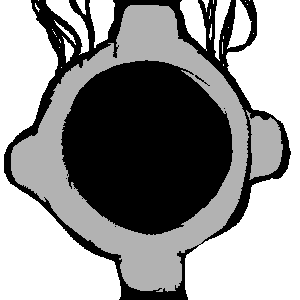
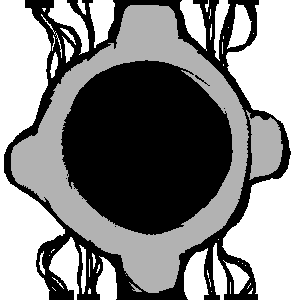
added bottom wires

diff --git a/js/script.js b/js/script.js
@@ -83,7 +83,7 @@ var specialPresets = [
         d.getElementById("messages").style.display = "inline-block"
         d.getElementById("newmessages").style.display = "inline-block"
         
-        messagePresets[0] =  writeMessage("Visual display non-responsive. Switching to text-based display.", messagePresets[0])
+        messagePresets[0] =  writeMessage("Visual display non-responsive. Switching to text-based display.", messagePresets[0], 0)
     }, 5, "viewportYEAH"],
 
     [100, "Upgrade Blood Valves", "Now twice as efficient!", 3, ()=> {
@@ -192,7 +192,7 @@ function count(number) {
 }
 //////
 
-function writeMessage(text, check) {
+function writeMessage(text, check, delay) {
 
     for(let n = 0; n < newsCounter;n++) {
         if(d.getElementById("strip" + n) != null) {
@@ -205,20 +205,35 @@ function writeMessage(text, check) {
 
     else if(check === false) {
 
-        newsCounter++
+        if(delay === 0) {
+            newsCounter++
 
-        newmessages.innerHTML += '<p class="messageStrip" id="strip'+ newsCounter 
-        +'" style="animation-name:messageLoad;animation-duration:0.5s">'+ text + '</p>';
-       setTimeout(()=>{
-           if(d.getElementById("strip" + newsCounter != null)) {
-        d.getElementById("strip" + newsCounter).style = "";
-       }}, 500)
-         result =  true;
-
-       data.messageLog[newsCounter] = text
-    }
+            newmessages.innerHTML += '<p class="messageStrip" id="strip'+ newsCounter 
+            +'" style="animation-name:messageLoad;animation-duration:0.5s">'+ text + '</p>';
+           setTimeout(()=>{
+               if(d.getElementById("strip" + newsCounter != null)) {
+            d.getElementById("strip" + newsCounter).style = "";
+           }}, 500)
+             result =  true;
     
-    return result;
+           data.messageLog[newsCounter] = text
+        } else setTimeout(()=>{
+
+            newsCounter++
+
+            newmessages.innerHTML += '<p class="messageStrip" id="strip'+ newsCounter 
+            +'" style="animation-name:messageLoad;animation-duration:0.5s">'+ text + '</p>';
+           setTimeout(()=>{
+               if(d.getElementById("strip" + newsCounter != null)) {
+            d.getElementById("strip" + newsCounter).style = "";
+           }}, 500)
+             result =  true;
+    
+    
+
+}, delay)
+    }
+return result;
 }
 
 
@@ -354,7 +369,7 @@ function addUpgrade(preset) {
         intervals[dataPosition] = setInterval(()=>{
             if(data.upgrade[preset[7]] !== null && data.upgrade[preset[7]] !== undefined && data.upgrade[preset[7]][2] > 0) {
                 
-                writeMessage("hey.", false)
+                writeMessage("hey.", false, 0)
         
             }}, data.upgrade[0][10] * 1000)
 
@@ -548,11 +563,11 @@ if(inputStream[inputStream.length - 1] === "Enter") {
     
             switch (autosavetoggle) {
                 case true:
-                writeMessage("AUTOSAVE ACTIVATED", false)
+                writeMessage("AUTOSAVE ACTIVATED", false, 0)
                 autosave.innerHTML = "<span id='on'>[ON]</span> AUTOSAVE"
                 break;
                 case false:
-                writeMessage("AUTOSAVE DEACTIVATED", false)
+                writeMessage("AUTOSAVE DEACTIVATED", false, 0)
                 autosave.innerHTML = "<span id='off'>[OFF]</span> AUTOSAVE"
                 break;
             } break;
@@ -587,7 +602,7 @@ if(inputStream[inputStream.length - 1] === "Enter") {
 
         case ">h":
       //  console.log(cmdHistory);
-        writeMessage(cmdHistory, false)
+        writeMessage(cmdHistory, false, 0)
         break;
 
         case ">v":
@@ -606,13 +621,13 @@ if(inputStream[inputStream.length - 1] === "Enter") {
             if(cmd[cmd.length - 1][0] === "#") { msg = "<span style='color:" + cmd[cmd.length - 1] + "' >"
             for(let n = 1; n < cmd.length - 1; n++)  msg += cmd[n] + " "
             msg += "</span>"
-            writeMessage(msg, false)
-            writeMessage("<br>", false)
+            writeMessage(msg, false, 0)
+            writeMessage("<br>", false, 0)
         }  else {
             msg = ""
             for(let n = 1; n < cmd.length; n++)  msg += cmd[n] + " "
-            writeMessage(msg, false)
-            writeMessage("<br>", false)
+            writeMessage(msg, false, 0)
+            writeMessage("<br>", false, 0)
         }}
         break;
 
@@ -624,8 +639,8 @@ if(inputStream[inputStream.length - 1] === "Enter") {
 
                 download(msg, cmd[1], "txt");
             }
-            else if(!cmd[1]) writeMessage("No name given", false)
-            else if(!cmd[2]) writeMessage("No data given", false)
+            else if(!cmd[1]) writeMessage("No name given", false, 0)
+            else if(!cmd[2]) writeMessage("No data given", false, 0)
             break;
 
         case ">clear":
@@ -633,7 +648,7 @@ if(inputStream[inputStream.length - 1] === "Enter") {
             if(ExpandToggle) clearNum = 25
              else clearNum = 10
             for(let n = 0; n <= clearNum; n++) {
-                writeMessage("<br>", false)
+                writeMessage("<br>", false, 0)
             } break;
 
         case ">click":
@@ -668,8 +683,8 @@ if(inputStream[inputStream.length - 1] === "Enter") {
 
         for(n in cmd) msg += cmd[n] + " "
         msg += "is not a command. Try again."
-        writeMessage(msg, false)
-        writeMessage("<br>", false)
+        writeMessage(msg, false, 0)
+        writeMessage("<br>", false, 0)
      //   console.log("Unknown command");
         break;
     }
@@ -814,7 +829,7 @@ function linkSplit(text, back) {
         choiceNumberOf++
     
          }
-         if(Nodes[n] !== undefined) if(data.counter <= Nodes[n].Value) writeMessage(`${Nodes[n].Value} Energy Needed`, false)
+         if(Nodes[n] !== undefined) if(data.counter <= Nodes[n].Value) writeMessage(`${Nodes[n].Value} Energy Needed`, false, 0)
 
      }}}
 
@@ -827,7 +842,7 @@ function linkSplit(text, back) {
      }
 
      data.counter -= Nodes [ data.adventureLog[data.adventureLog.length - 1 ] ].Value
-     writeMessage(`${ Nodes [ data.adventureLog[data.adventureLog.length - 1 ] ].Value} Energy Used`, false)
+     writeMessage(`${ Nodes [ data.adventureLog[data.adventureLog.length - 1 ] ].Value} Energy Used`, false, 0)
 
      if(back) data.adventureLog.splice(data.adventureLog.length-1, 1)
      
@@ -844,12 +859,12 @@ function linkSplit(text, back) {
 wireItems = d.getElementsByClassName("wiresItem")
 
 
-for(let n = 0; n <= 1; n++)
+for(let n = 0; n <= 3; n++)
 wireItems[n].addEventListener("click", ()=>{
     if (messagePresets[0]) {
     switch (true) {
         case (wires[0] < 32):
-            writeMessage(wires[wires[0]], false);
+            writeMessage(wires[wires[0]], false, 0);
             wires[0]++;
             break;
         case (wires[0] >= 32 && wires[0] < 35):
@@ -864,7 +879,7 @@ wireItems[n].addEventListener("click", ()=>{
 
 function wireStop() {
     if(wiresPauses) {
-        writeMessage(wires[wires[0]], false)
+        writeMessage(wires[wires[0]], false, 0)
         wires[0]++
 
     }}
@@ -898,7 +913,7 @@ let wires = [1,
     "IF YOU DON'T STOP...",//26
     "I'LL BE FORCED TO USE MY <i>SECRET MOVE</i>",//27
     "LAST WARNING...",//28
-    "<span class='link' onclick=' data.counter = 0; if(wiresPauses === false){writeMessage(wires[32], false);wires[0]++;wiresPauses = true}'>eraseCounter.exe</span>",//29
+    "<span class='link' onclick=' data.counter = 0; if(wiresPauses === false){writeMessage(wires[32], false, 0);wires[0]++;wiresPauses = true}'>eraseCounter.exe</span>",//29
     "...",//30
     "COULD YOU, UM, CLICK ON THE FILE?",//31
     "HAHAHAHAHA!",//32
@@ -908,9 +923,6 @@ let wires = [1,
 wiresPauses = false
 
 //Math.floor((Math.random() * wires.length))
-
-writeMessage("<br>", false)
-d.getElementById("strip0").style = ""
 
 EnergySwitch.addEventListener("click", ()=>{
     EnergySwitchToggle = !EnergySwitchToggle;
@@ -948,7 +960,7 @@ secondHeart.addEventListener("click", ()=>{
 
 
 function SAVE(isClear) {
-    if(!autosavetoggle && !isClear) writeMessage("STATE SAVED", false)
+    if(!autosavetoggle && !isClear) writeMessage("STATE SAVED", false, 0)
 
     //btoa(unescape(encodeURIComponent(str)))
     //localStorage.firstSave = "true"
@@ -1121,7 +1133,7 @@ function RESET() {
 
     var CLEARspookInterval = setInterval(()=>{
         d.getElementById("newmessages").style.display = "inline-block"
-        writeMessage("ERROR", false);
+        writeMessage("ERROR", false, 0);
     },10)
 
     setTimeout(()=>{
@@ -1214,11 +1226,11 @@ autosave.addEventListener("click", ()=>{
     
     switch (autosavetoggle) {
         case true:
-        writeMessage("AUTOSAVE ACTIVATED", false)
+        writeMessage("AUTOSAVE ACTIVATED", false, 0)
         autosave.innerHTML = "<span id='on'>[ON]</span> AUTOSAVE"
         break;
         case false:
-        writeMessage("AUTOSAVE DEACTIVATED", false)
+        writeMessage("AUTOSAVE DEACTIVATED", false, 0)
         autosave.innerHTML = "<span id='off'>[OFF]</span> AUTOSAVE"
         break;
     }
@@ -1229,7 +1241,7 @@ save.addEventListener("click", ()=>{ SAVE(false) })
 load.addEventListener("click", ()=>{ LOAD() ; })
 reset.addEventListener("click", ()=>{ 
     resetOnce= false
-    writeMessage("This will erase all of you data. Are you sure that you want to proceed? [<span class='link' onclick='if(!resetOnce) RESET() '>YES</span>][<span class='link' onclick='if(!resetOnce) {writeMessage(`All right.`, false); resetOnce = true}'>NO</span>]", false)
+    writeMessage("This will erase all of you data. Are you sure that you want to proceed? [<span class='link' onclick='if(!resetOnce) RESET() '>YES</span>][<span class='link' onclick='if(!resetOnce) {writeMessage(`All right.`, false, 0); resetOnce = true}'>NO</span>]", false, 0)
 
 })
 exportS.addEventListener("click", ()=>{ 
@@ -1239,9 +1251,9 @@ exportS.addEventListener("click", ()=>{
     const text = exportFile
     try {
        navigator.clipboard.writeText('"' +text + '"')
-       writeMessage("DATA COPIED TO CLIPBOARD", false)
+       writeMessage("DATA COPIED TO CLIPBOARD", false, 0)
     } catch (err) {
-        writeMessage("DATA FAILED TO EXPORT", false)
+        writeMessage("DATA FAILED TO EXPORT", false, 0)
     }
 
 })
@@ -1291,7 +1303,7 @@ if(data.counter >= 999999999) data.counter = 999999999
 
  if(autosavetoggle && !autosavedelay) SAVE(false)
 
-//for(n in messagePresets) if(data.counter >= messagePresets[n][1]) data.messageChecker[n] = writeMessage(messagePresets[n][0], data.messageChecker[n]);
+//for(n in messagePresets) if(data.counter >= messagePresets[n][1]) data.messageChecker[n] = writeMessage(messagePresets[n][0], data.messageChecker[n], 0);
 
 for(n in specialPresets) {
 if(data.counter >= specialPresets[n][5] && !data.special[n][4]) {

diff --git a/index.html b/index.html
@@ -32,10 +32,16 @@
       <img id ="heartCont" src="css/images/heartBack.png">
       <div id="heart"> <div id="heartWhite"></div> </div>
       <div id="heartBottom"></div>
-      <div id="wiresCon">
-        <div id = "wiresFlex">
+      <div class="wiresCon" id="wiresUp">
+        <div class = "wiresFlex">
          <div class="wiresItem"></div> 
          <div id="EnergySwitch"></div>
+         <div class="wiresItem"></div>
+        </div>
+      </div>
+      <div class="wiresCon" id="wiresDown">
+        <div class = "wiresFlex">
+         <div class="wiresItem"></div> 
          <div class="wiresItem"></div>
         </div>
       </div>

diff --git a/css/main.css b/css/main.css
@@ -448,16 +448,22 @@ a:visited {
   margin:0;
 }
 
-#wiresCon {
+.wiresCon {
   z-index: 4;
   width:250px;
   position: absolute;
-  top:0;
   left: 50%;
-
 }
 
-#wiresFlex{
+#wiresUp {
+  top:0;
+}
+
+#wiresDown {
+  bottom:65px;
+}
+
+.wiresFlex{
   position:relative;
   left : -50%;
   top:65px;
